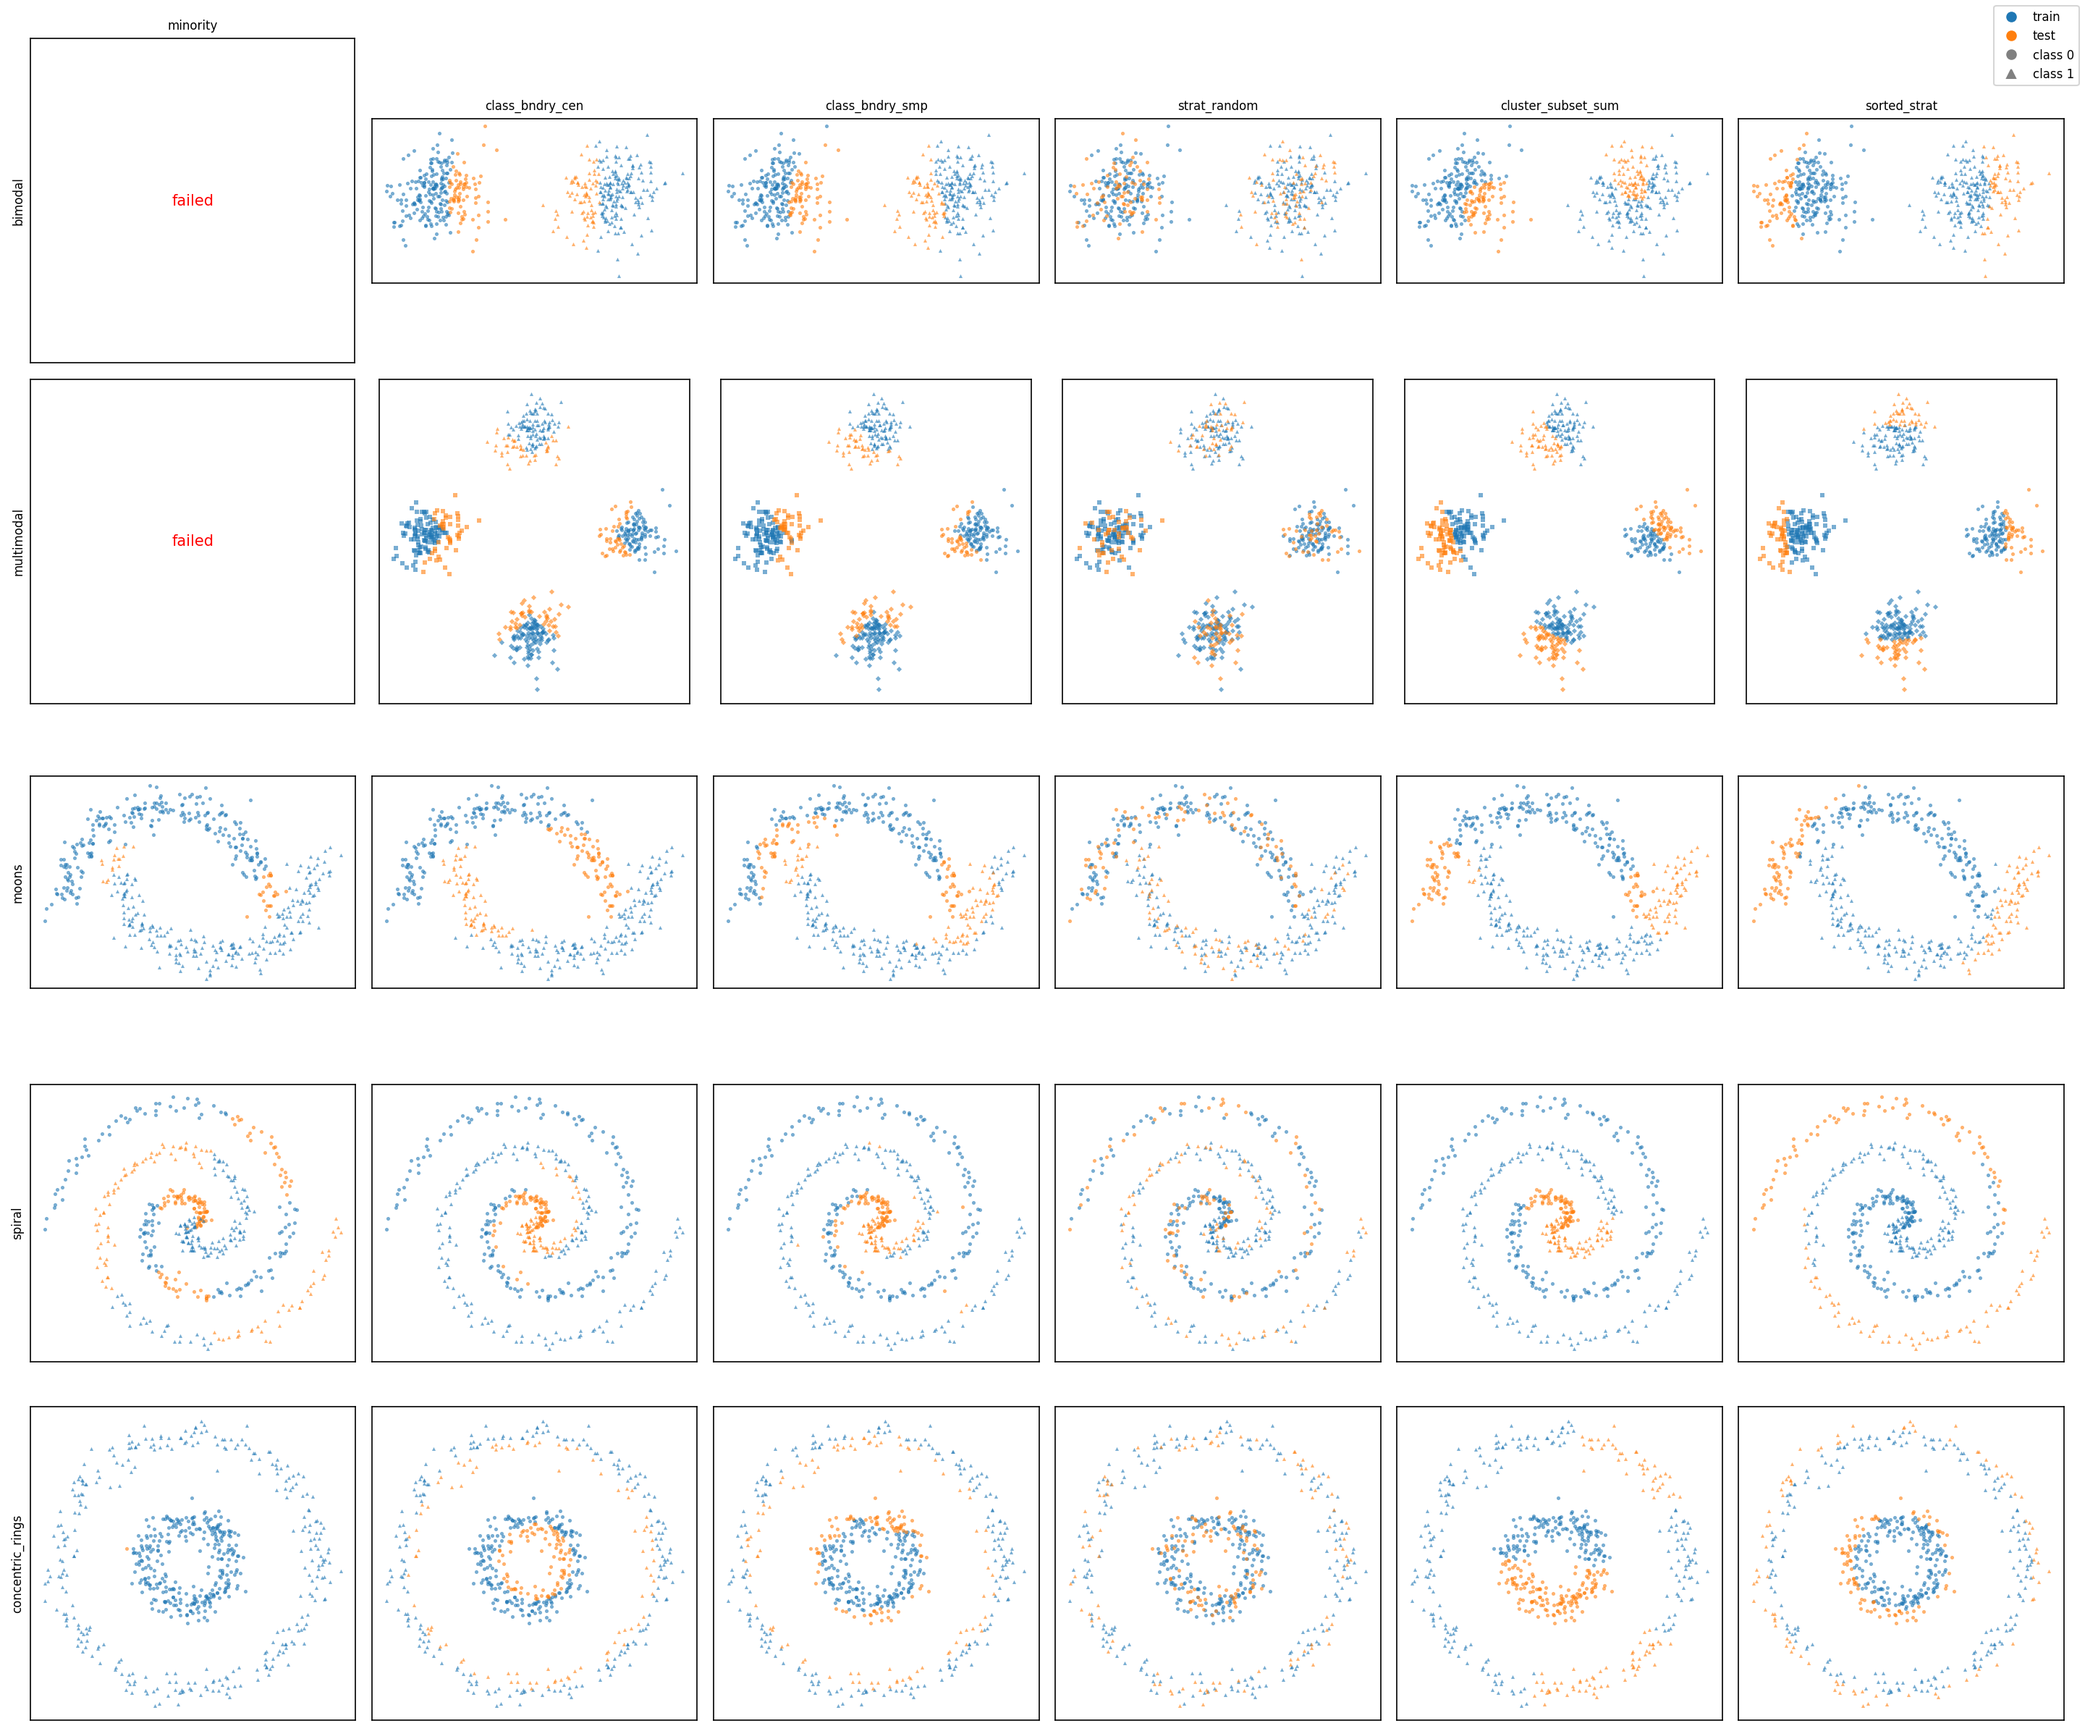
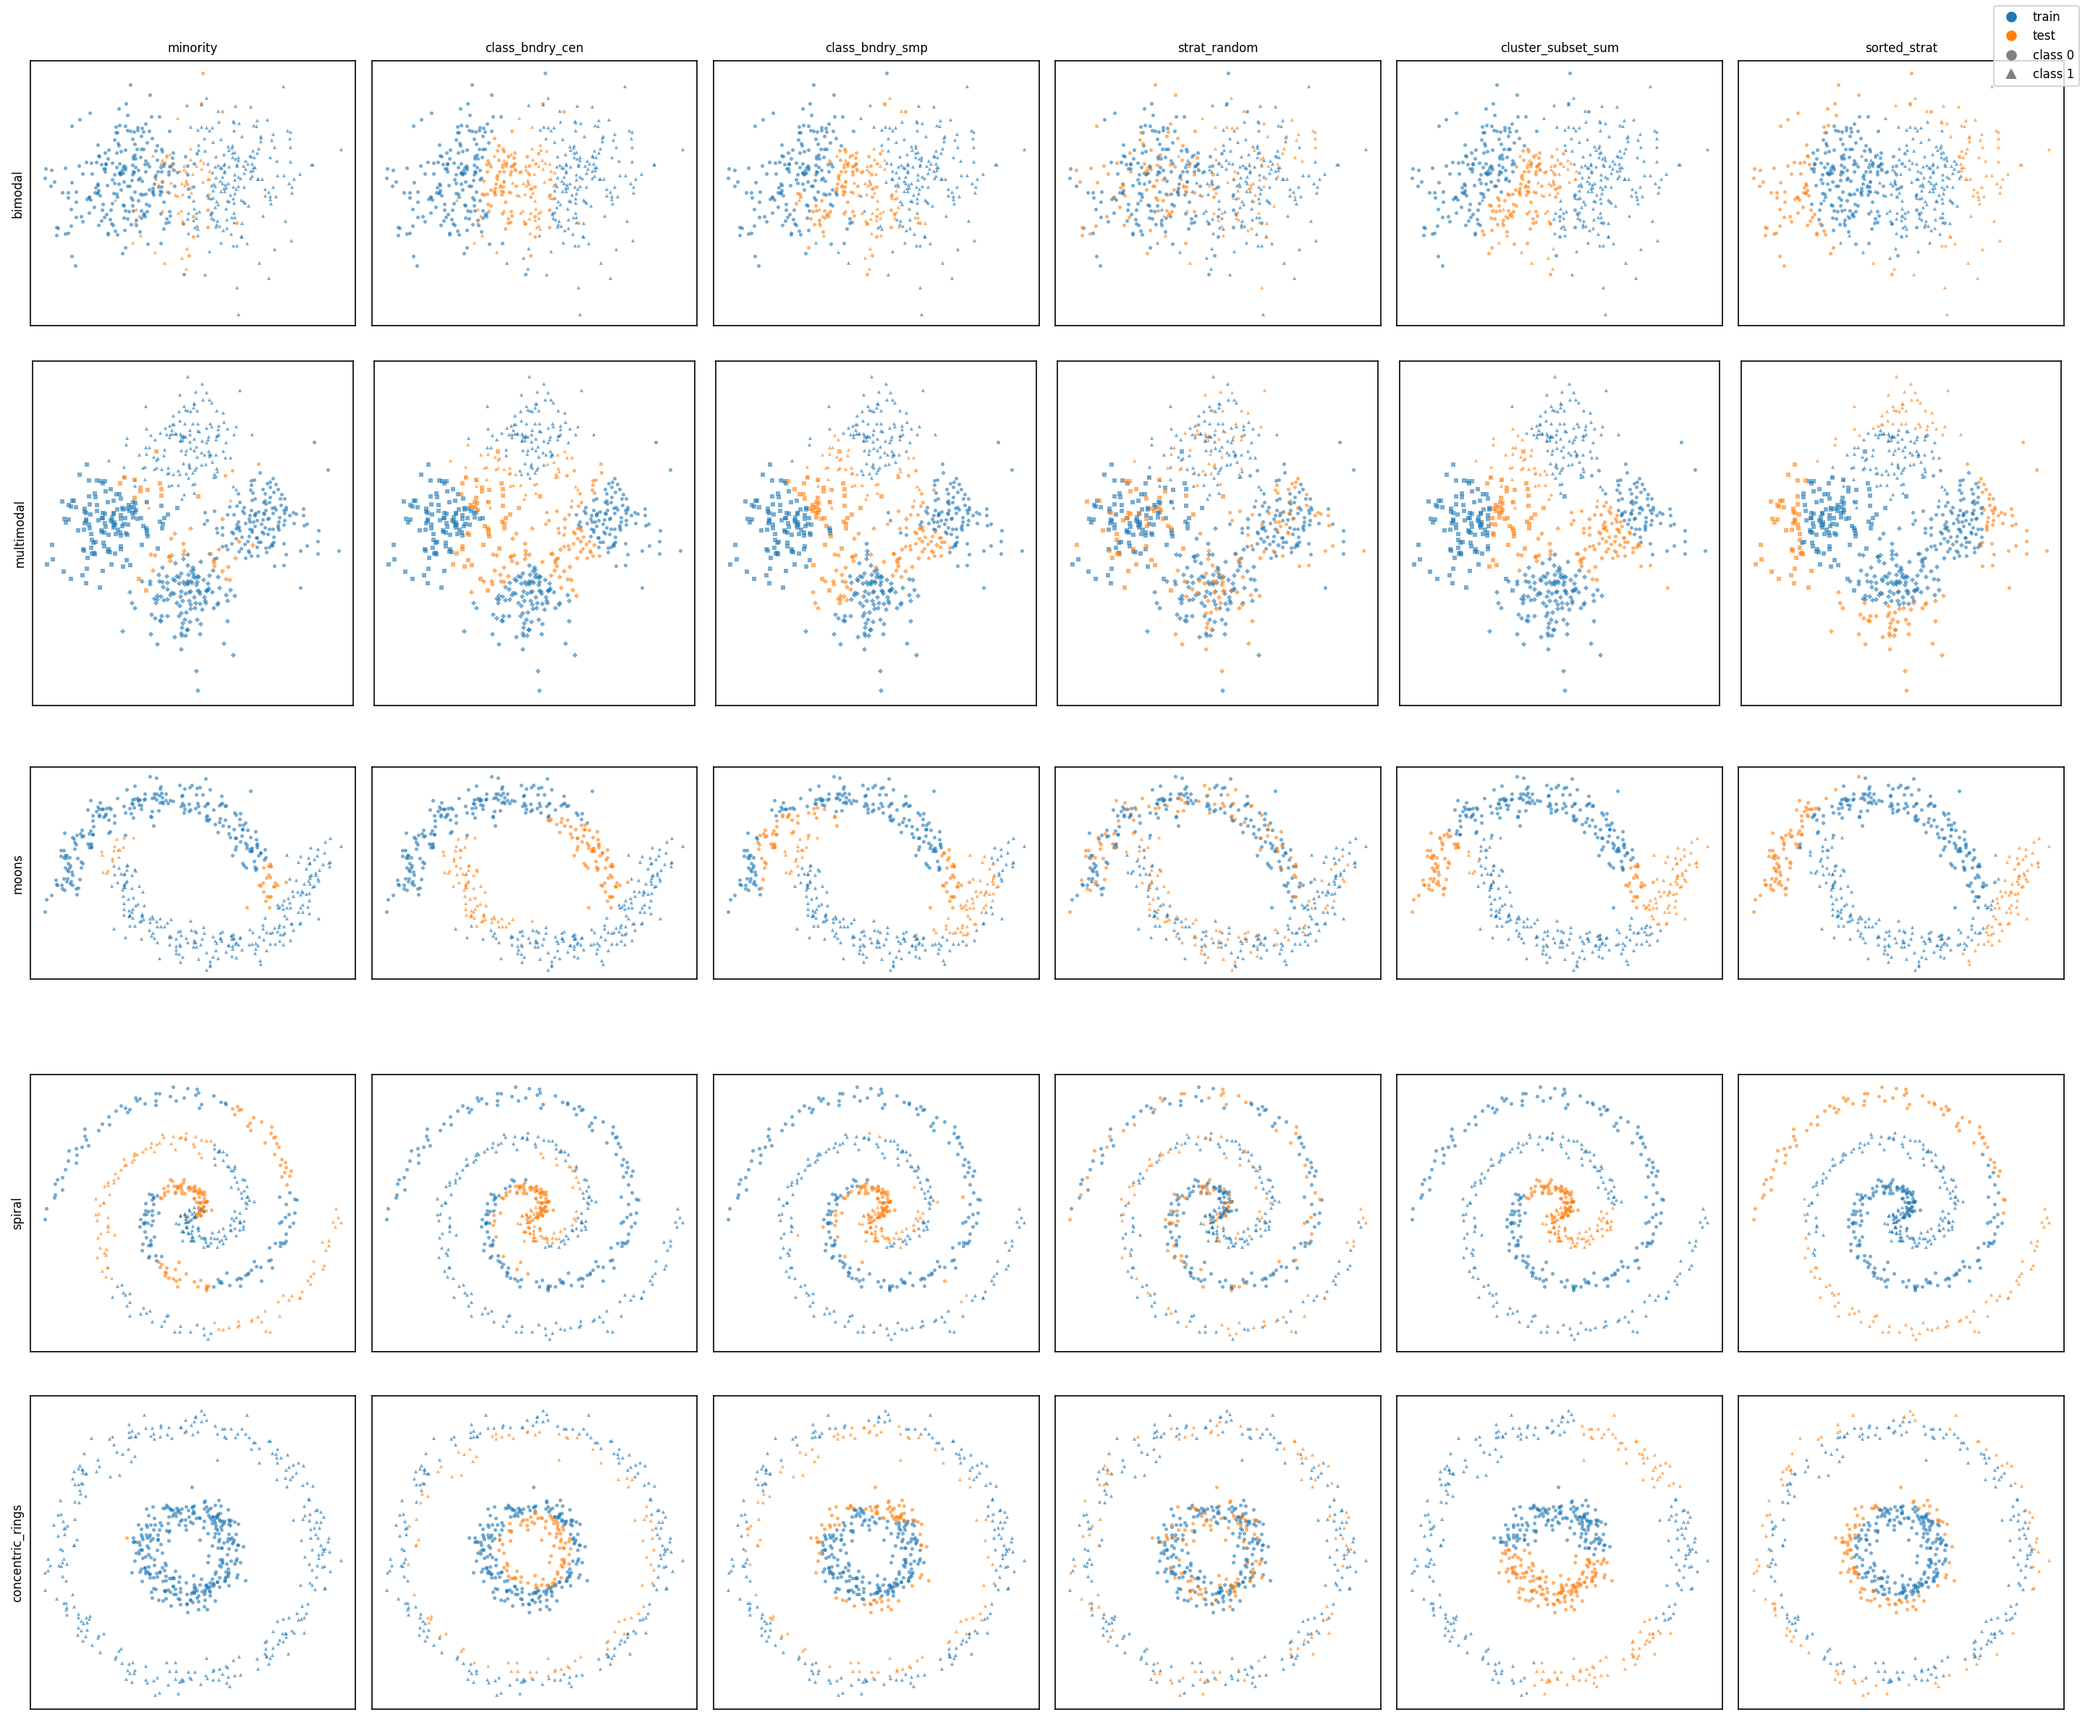
fix(viz): overlap labeled blobs so supervised figure has no failed cells
minority_split needs label-mixed clusters; on the cleanly separated bimodal/
multimodal blobs every cluster was label-pure, so those two cells rendered as
"failed". Give make_bimodal_labeled / make_multimodal_labeled overlapping
classes (closer centers, wider std) so the classes share a contested boundary
-- which also makes the other label-aware splitters more illustrative. Only the
*_labeled generators change; the unsupervised figure is unaffected.

Regenerate docs/supervised.png (all 30 cells render) and update the README
caption accordingly.

diff --git a/scripts/generate_test_2d.py b/scripts/generate_test_2d.py
@@ -122,13 +122,19 @@ def _labeled_blobs(centers, n, std, seed):
     return np.concatenate(parts), np.array(labels)
 
 
-def make_bimodal_labeled(n=500, centers=((-3, 0), (3, 0)), std=0.8, seed=42):
-    """Two separated Gaussian blobs, labeled by blob."""
+def make_bimodal_labeled(n=500, centers=((-1.8, 0), (1.8, 0)), std=1.4, seed=42):
+    """Two overlapping Gaussian blobs, labeled by blob.
+
+    Deliberately overlapping (unlike the unlabeled ``make_bimodal``) so the
+    classes share a contested boundary region -- which is what makes the
+    label-aware splitters interesting, and lets cluster-based ones like
+    ``minority_split`` find label-mixed clusters instead of failing.
+    """
     return _labeled_blobs(centers, n, std, seed)
 
 
-def make_multimodal_labeled(n=600, n_clusters=4, radius=4.0, std=0.6, seed=42):
-    """Gaussian blobs arranged in a circle, labeled by blob."""
+def make_multimodal_labeled(n=600, n_clusters=4, radius=2.5, std=0.9, seed=42):
+    """Overlapping Gaussian blobs arranged in a circle, labeled by blob."""
     angles = np.linspace(0, 2 * np.pi, n_clusters, endpoint=False)
     centers = [(radius * np.cos(a), radius * np.sin(a)) for a in angles]
     return _labeled_blobs(centers, n, std, seed)

diff --git a/README.md b/README.md
@@ -115,7 +115,7 @@ distance, mean 1-D Wasserstein/KS, and optional label-distribution shift).
 
 A plain `random_split` baseline and utilities (`compute_pairwise_distances`, `compute_split_similarity`, `cluster_embeddings`, ...) are also exported from `splytters`.
 
-The unsupervised figures are generated by `demos/visualize_splits.py` and the supervised one by `demos/visualize_supervised_splits.py` — each row is a 2D distribution (unimodal, moons, spirals, rings, ...), each column a splitter. Blue = train, orange = test; in the supervised figure marker shape encodes the class. (`minority_split` shows "failed" on cleanly separated blobs, where every cluster is label-pure by design.)
+The unsupervised figures are generated by `demos/visualize_splits.py` and the supervised one by `demos/visualize_supervised_splits.py` — each row is a 2D distribution (unimodal, moons, spirals, rings, ...), each column a splitter. Blue = train, orange = test; in the supervised figure marker shape encodes the class. (The supervised figure uses overlapping-class variants of the blob distributions so the label-aware splitters have a contested boundary to work with.)
 
 ## Sorters
 
